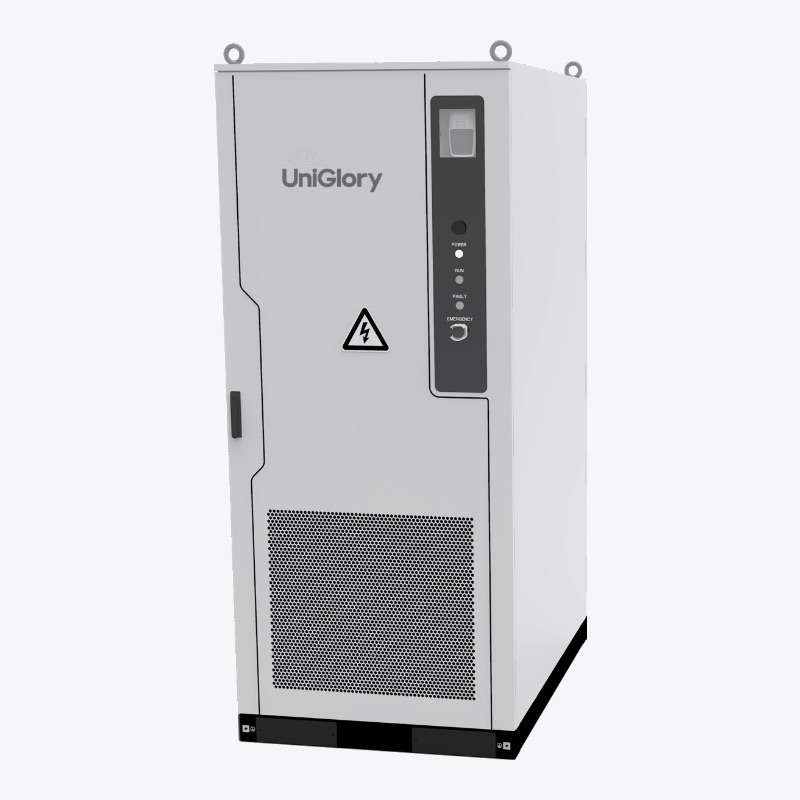
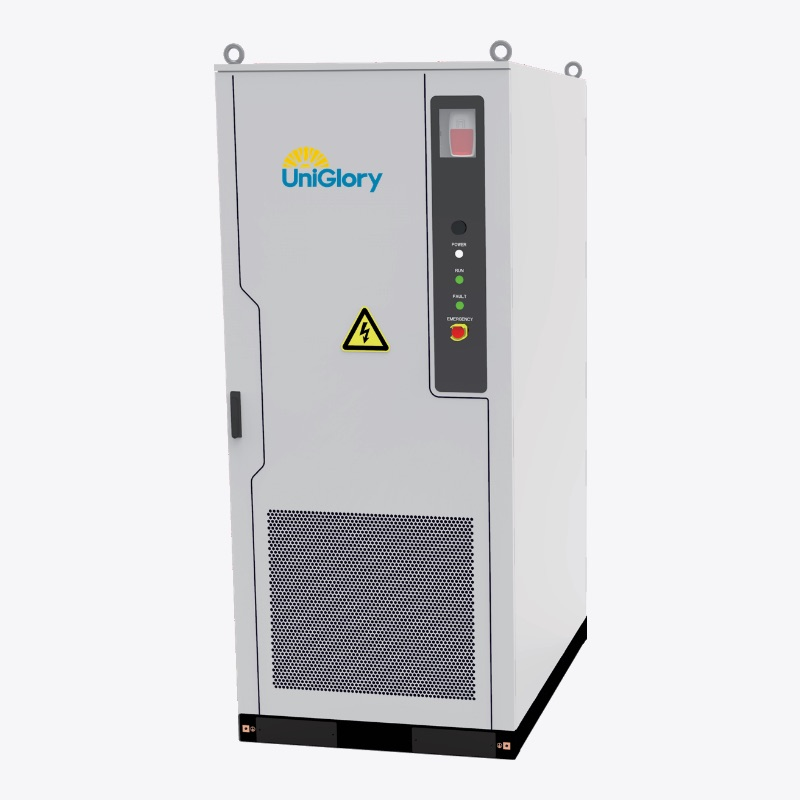
Restore colour to the BESS product images
The greyscale was mine, not the supplier's. Measured: the version that went live
had a maximum saturation of 1 across the whole image, while the same render
without the filter reaches 240, at rgb(246,208,6) — the gold in the logo. The
products themselves are white cabinets and read as near-greyscale either way, but
the brand mark does not, and a global filter destroyed it.

The four BESS images are re-rendered without the filter and the photo boxes carry
the same .is-brand modifier as the inverters, so no page now greyscales a brand
mark. The module pages keep their greyscale, which was a deliberate choice and
where the images carry no mark.

Also worth recording: the render pages hard-code the surface colour on html/body,
so --default-background-color never applied and the 'transparent' variants were
opaque all along. The background matches the page surface, so nothing looks
different — but the transparency is not real.

diff --git a/battery-storage/index.html b/battery-storage/index.html
@@ -270,7 +270,7 @@
 
           <div class="range-grid reveal">
             <article class="range-card">
-              <div class="range-photo is-square">
+              <div class="range-photo is-square is-brand">
                 <picture>
                   <source type="image/avif" srcset="/images/bess-16kwh-stackable.avif" />
                   <img
@@ -293,7 +293,7 @@
             </article>
 
             <article class="range-card">
-              <div class="range-photo is-square">
+              <div class="range-photo is-square is-brand">
                 <picture>
                   <source type="image/avif" srcset="/images/bess-16kwh-all-in-one.avif" />
                   <img
@@ -316,7 +316,7 @@
             </article>
 
             <article class="range-card">
-              <div class="range-photo is-square">
+              <div class="range-photo is-square is-brand">
                 <picture>
                   <source type="image/avif" srcset="/images/bess-261kwh.avif" />
                   <img
@@ -339,7 +339,7 @@
             </article>
 
             <article class="range-card">
-              <div class="range-photo is-square">
+              <div class="range-photo is-square is-brand">
                 <picture>
                   <source type="image/avif" srcset="/images/bess-5mwh.avif" />
                   <img
